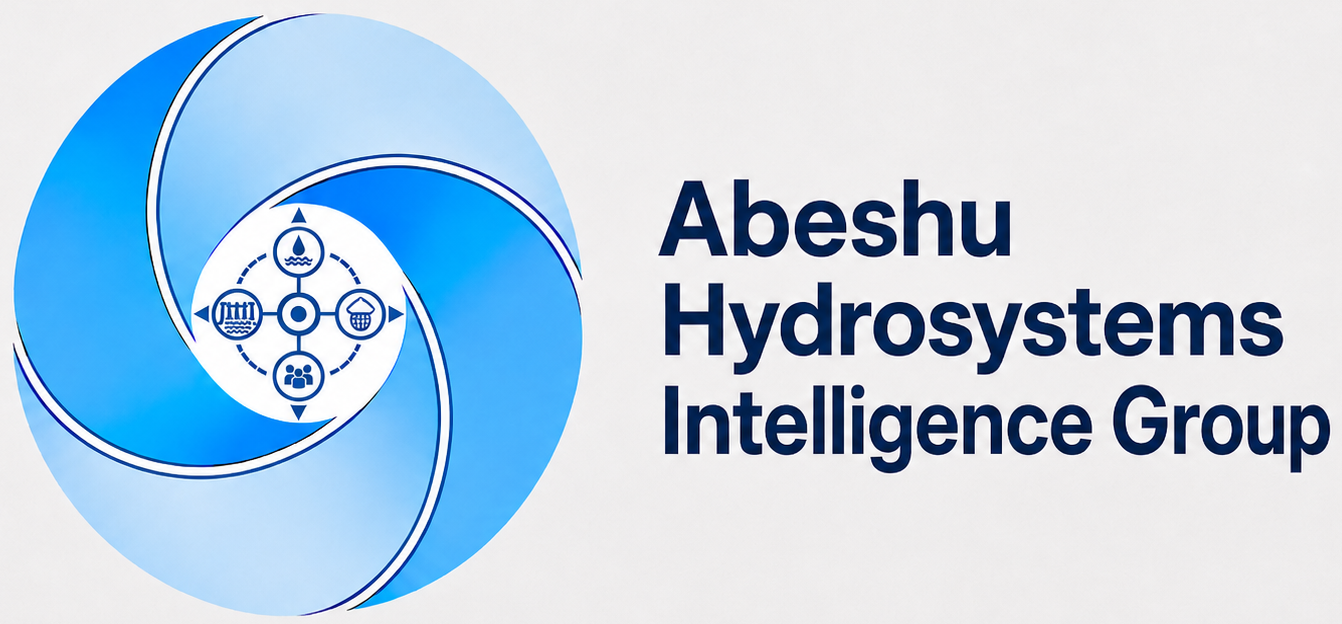
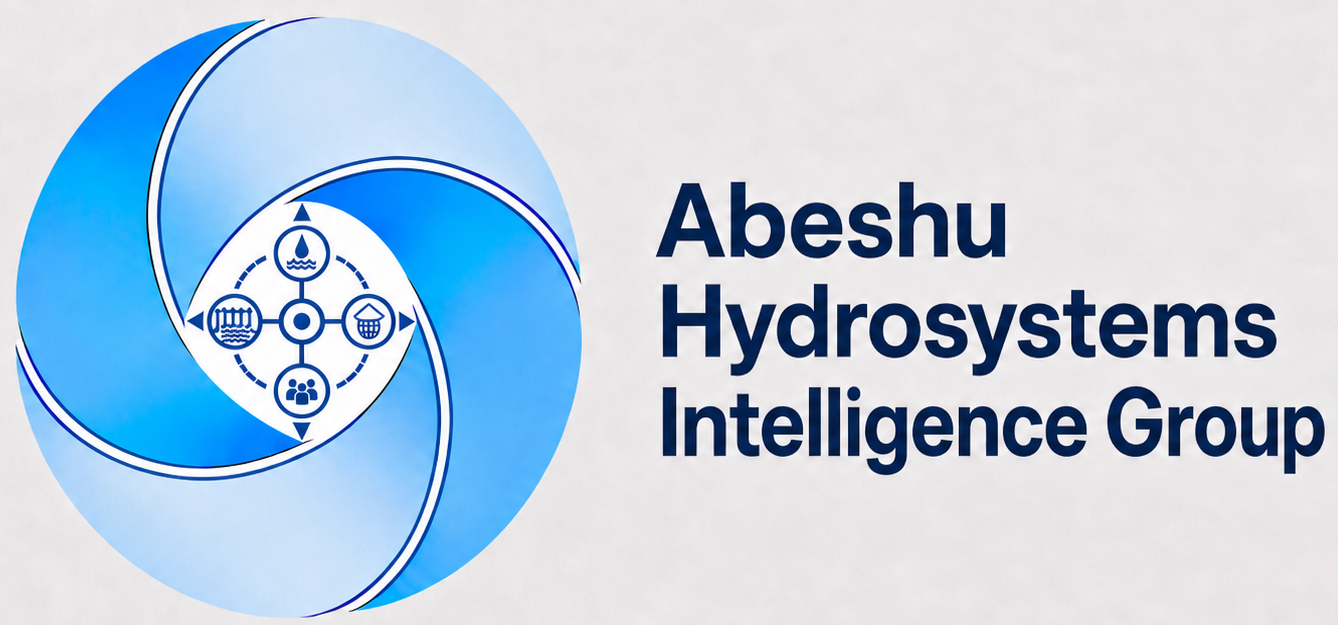
home page edits

diff --git a/index.md b/index.md
@@ -7,7 +7,7 @@ description: Abeshu Hydrosystems Intelligence Group at New Mexico State Universi
 <section class="home-hero" style="--home-hero-image: url('{{ '/assets/img/nm-rio-grande-bosque.jpg' | relative_url }}');">
   <div class="wrapper home-hero-grid">
     <div class="hero-copy">
-      <h1>Connecting climate, water, infrastructure, and society.</h1>
+      <h1>Connecting climate, water, infrastructure, and human dynamics.</h1>
       <p class="hero-lede">At New Mexico State University, the Abeshu Hydrosystems Intelligence Group develops models, data systems, and decision tools to understand and manage water risk in a changing climate, where past conditions no longer define future water security.</p>
       <div class="button-row">
         <a class="button primary" href="{{ '/research/' | relative_url }}">Explore Research</a>
@@ -30,11 +30,11 @@ description: Abeshu Hydrosystems Intelligence Group at New Mexico State Universi
         </div>
         <div>
           <strong>What we do.</strong>
-          <p>We study risk under climate stress and develop forecasts, models, and decision support for resilient, equitable water management.</p>
+          <p>We study water risk under climate stress and develop forecasts, models, and decision-support tools for resilient and equitable water management.</p>
         </div>
         <div>
           <strong>How we do it.</strong>
-          <p>Our approach blends process-based science, Earth observation, AI, optimization, and uncertainty analysis.</p>
+          <p>Our approach integrates process-based science, Earth observation, AI, optimization, and uncertainty analysis.</p>
         </div>
         <div>
           <strong>Research identity.</strong>
@@ -47,7 +47,7 @@ description: Abeshu Hydrosystems Intelligence Group at New Mexico State Universi
               <img src="{{ '/assets/img/AWSI.png' | relative_url }}" alt="" aria-hidden="true">
             </figure>
           </div>
-          <p>The blue hydrosystems mark centers water movement within a systems compass, linking water, infrastructure, weather, and community signals as inputs for resilient decisions.</p>
+          <p>The four interlocking petals represent climate, water, infrastructure, and human dynamics as interacting parts of a complex adaptive hydrosystem. Their circular motion reflects how these systems continuously influence, push, and respond to one another through feedbacks. The central mark represents hydrosystems intelligence: data, modeling, monitoring, and decision support guiding better water decisions.</p>
         </div>
       </div>
       <p class="manual-note">New and prospective group members can read the <a href="{{ '/manual/' | relative_url }}">Abeshu Hydrosystems Intelligence Group handbook</a> for advising expectations, onboarding, workflows, and group practices.</p>
